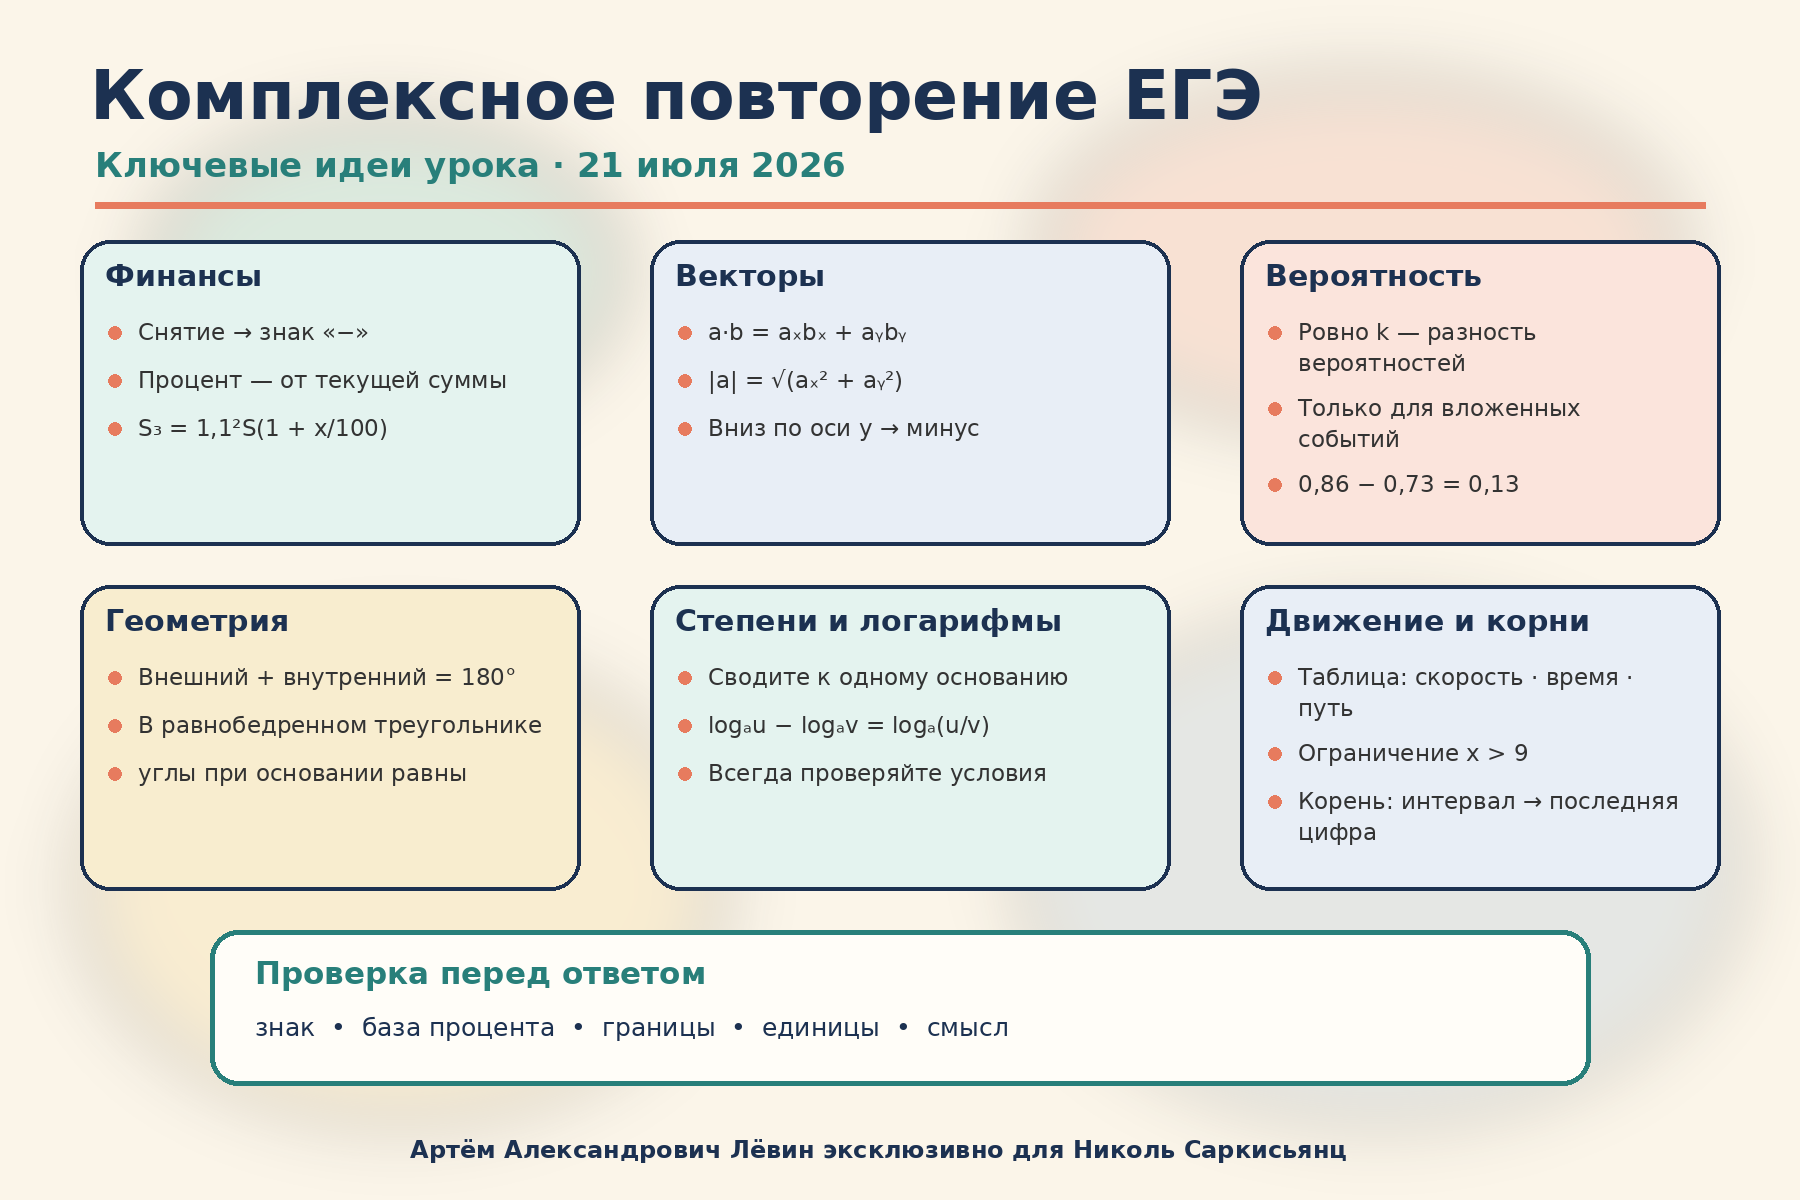
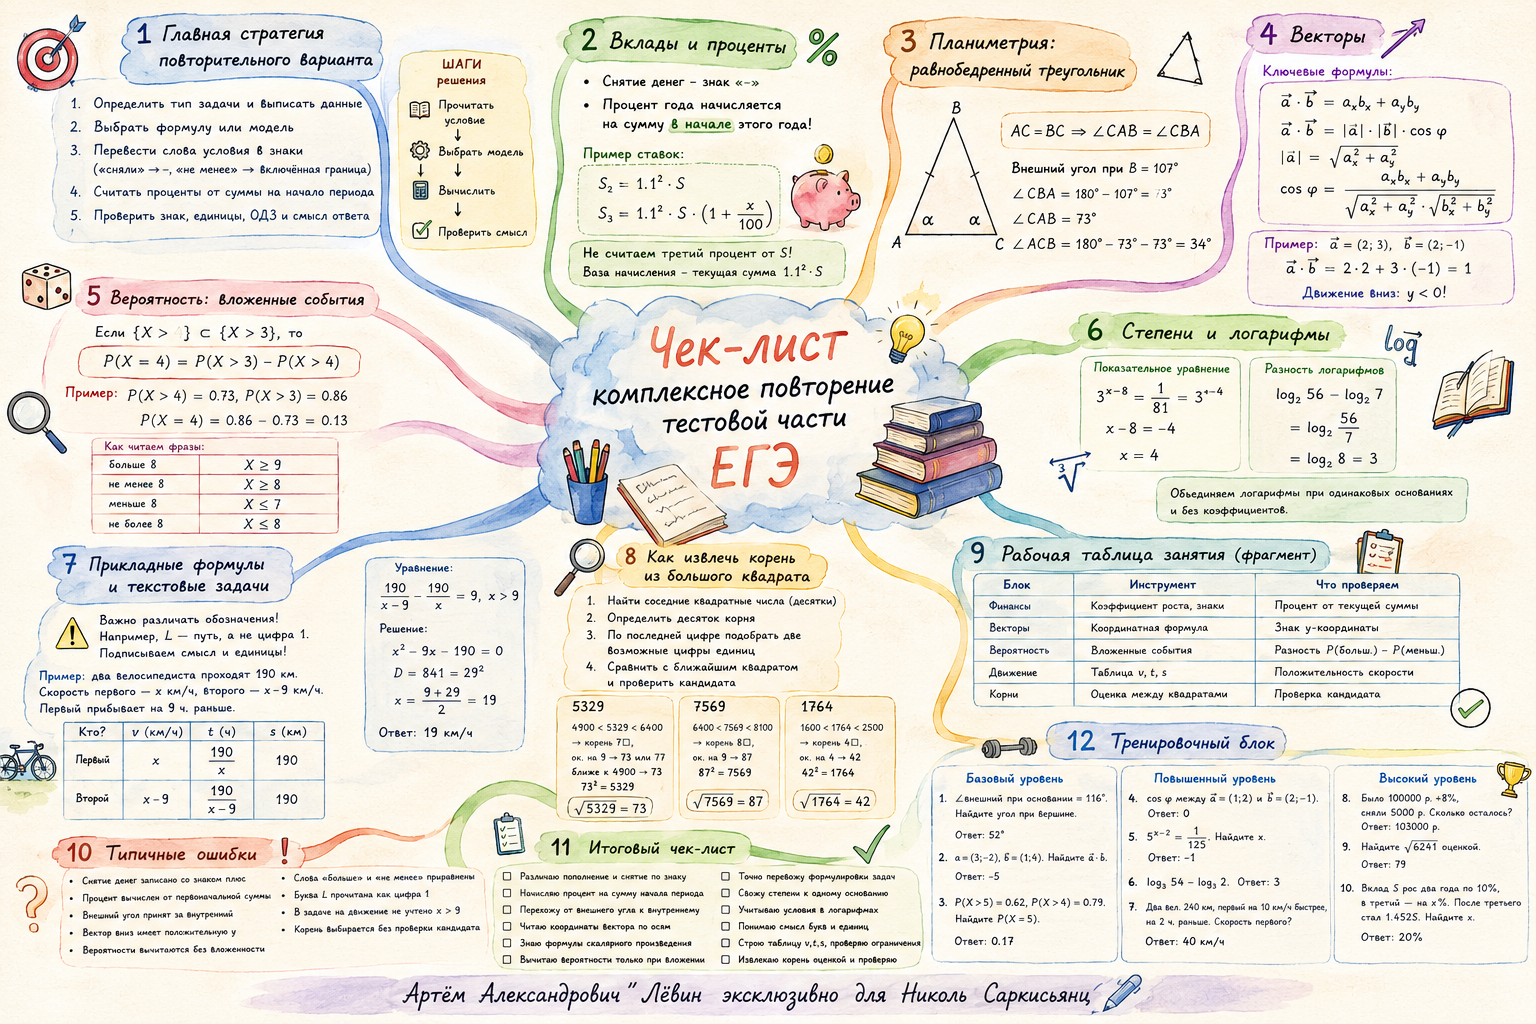
Nikol

diff --git a/pipline/prompts/00_transcript_to_json.md b/pipline/prompts/00_transcript_to_json.md
@@ -1,0 +1,17 @@
+Извлеки из транскрипта образовательную информацию и верни ТОЛЬКО валидный JSON. Никаких пояснений, никакого markdown, только JSON.
+
+Поля:
+- subject: предмет
+- topic: тема
+- content: массив объектов, каждый объект—это смысловой блок из транскрипта со структурой:
+    - type: один из: "theory", "formula", "hack", "error", "example"
+    - text: текст блока (без изменений или минимально сокращённый, но без интерпретаций)
+    - latex_formula: строка LaTeX (заполнять только если type="formula", иначе null)
+    - tags: массив тегов (например: ["percent", "geometry", "vector"], выбирай 1–3 тега по смыслу)
+
+Правила:
+- Не перефразируй текст, если это не мешает валидности JSON.
+- Не придумывай примеры и не обобщай.
+- Если информации по полю нет — ставь null или пустой массив.
+- Транскрипт может содержать разговорные вставки, шум, реплики учеников — игнорируй их, бери только образовательный контент.
+
